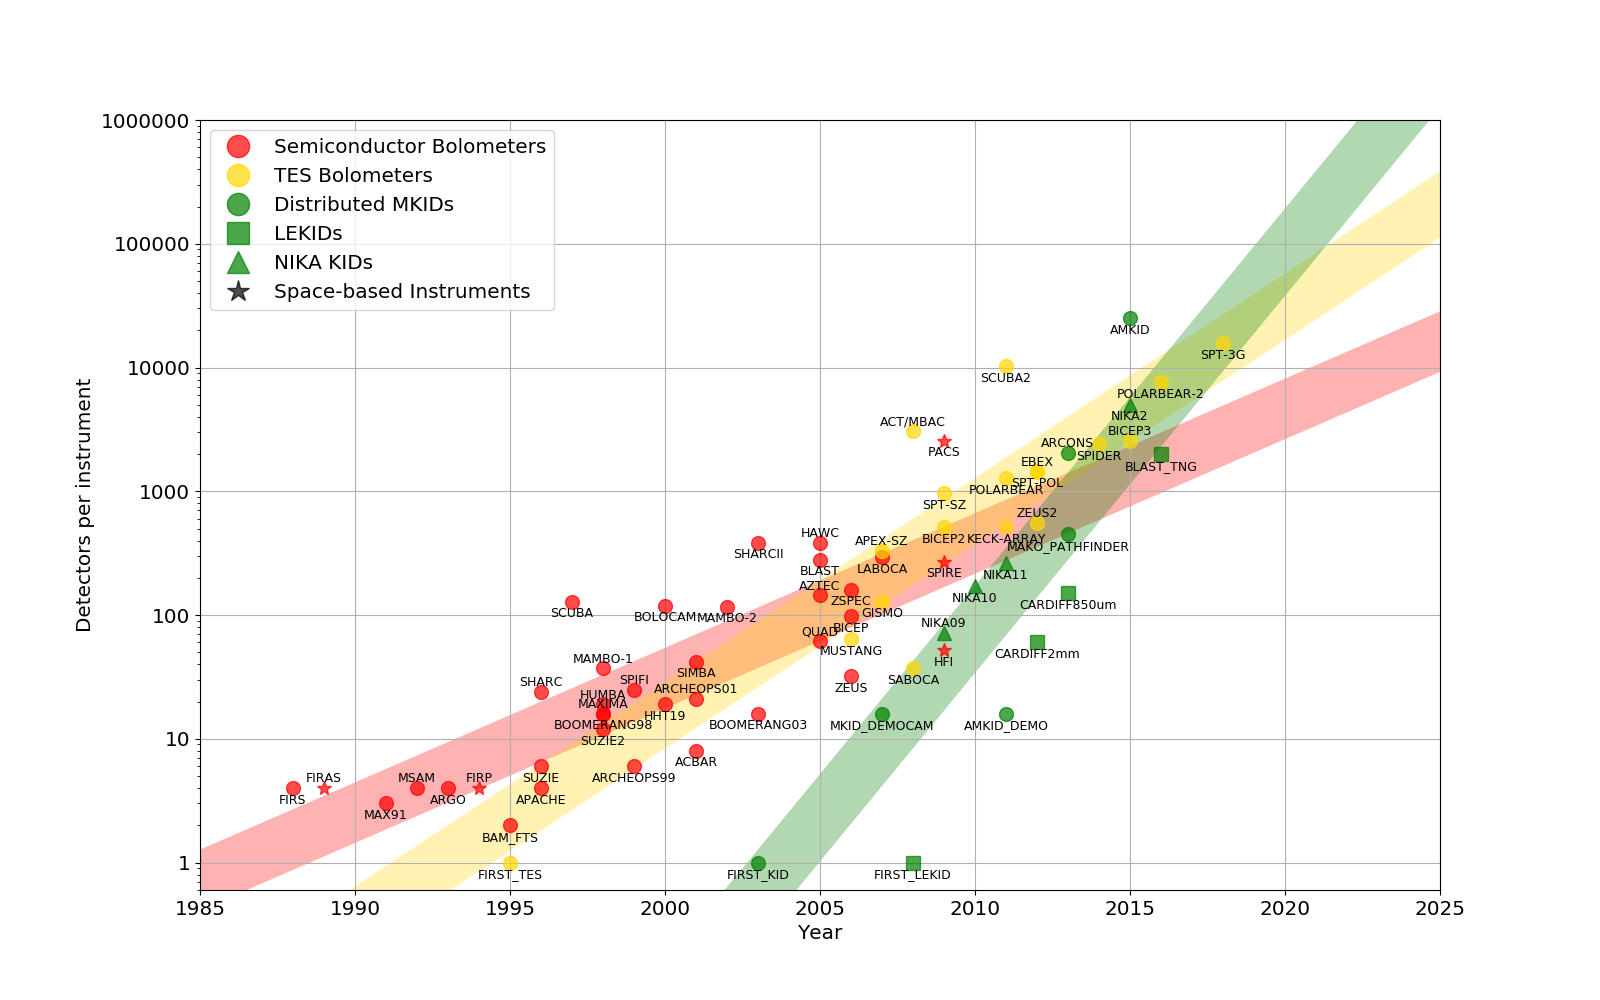
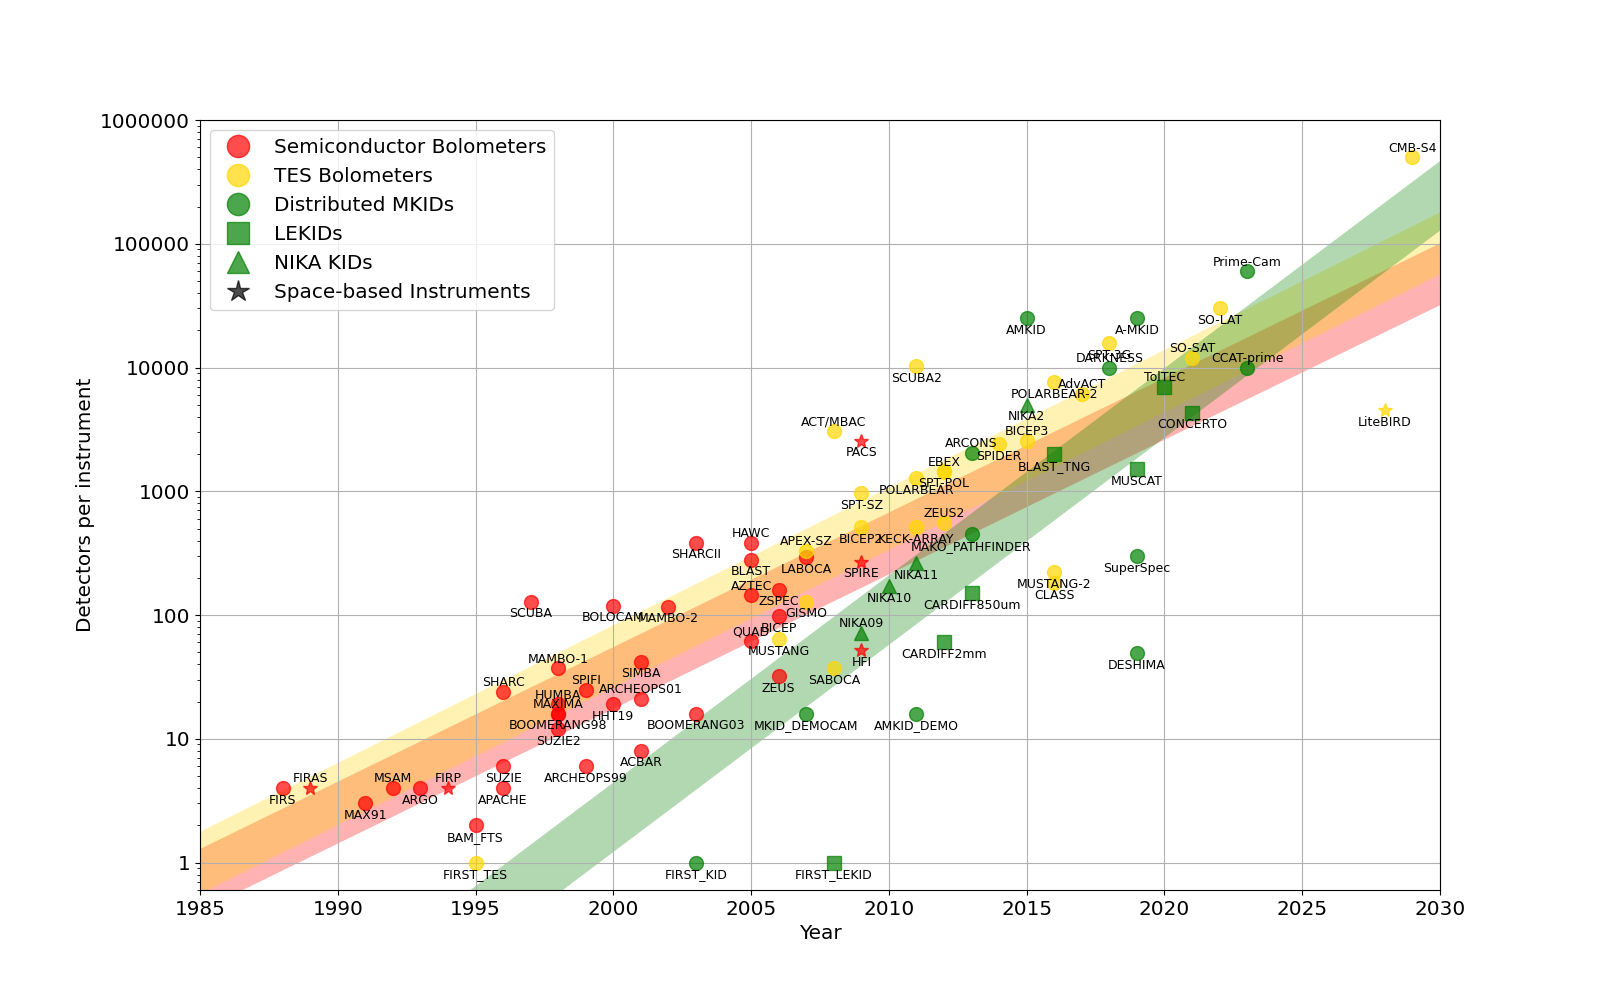
Add recent TES and KID/MKID instruments to table and update plot

diff --git a/instruments.py b/instruments.py
@@ -7,7 +7,7 @@ filename = 'instruments.csv'
 reader = csv.DictReader(open(filename), delimiter = '\t', quotechar = '"')
 instruments = [i for i in reader if i['Date'].isdigit()]
 
-textPositionUpper=['FIRAS','MSAM','FIRP','SHARC','SPIFI','MAMBO-1','HUMBA','MAXIMA','ARCHEOPS01','HAWC','AZTEC','QUAD','APEX-SZ','ACT/MBAC','NIKA09','EBEX','BICEP3','ZEUS2','ARCONS']
+textPositionUpper=['FIRAS','MSAM','FIRP','SHARC','SPIFI','MAMBO-1','HUMBA','MAXIMA','ARCHEOPS01','HAWC','AZTEC','QUAD','APEX-SZ','ACT/MBAC','NIKA09','EBEX','BICEP3','ZEUS2','ARCONS','AdvACT','DARKNESS','TolTEC','SO-SAT','CCAT-prime','CMB-S4','Prime-Cam']
 
 #prepare plot and add points
 f = plt.figure(figsize=(16,10))
@@ -116,12 +116,12 @@ lekids_y = [np.log10(float(i['Total_Detectors'])) for i in instruments if i['Det
 
 
 #fit lines between given dates
-bolorange = np.linspace(1980, 2025., 10)
-tesrange = np.linspace(1980, 2025., 10)
-semicondrange = np.linspace(1980, 2025., 10)
-kidrange = np.linspace(1980, 2025., 10)
-mkidrange = np.linspace(1980., 2025., 10)
-lekidrange = np.linspace(1980., 2025., 10)
+bolorange = np.linspace(1980, 2030., 10)
+tesrange = np.linspace(1980, 2030., 10)
+semicondrange = np.linspace(1980, 2030., 10)
+kidrange = np.linspace(1980, 2030., 10)
+mkidrange = np.linspace(1980., 2030., 10)
+lekidrange = np.linspace(1980., 2030., 10)
 
 bolo_poly = np.polyfit(bolos_x, bolos_y, 1)
 bolo_fit = np.poly1d(bolo_poly)(bolorange)
@@ -178,7 +178,7 @@ ax.plot(kidrange, 10**kids_fit, '-',color='green',lw=40,zorder=0,alpha=0.3)#labe
 ax.semilogy()
 ax.yaxis.set_major_formatter(plt.FormatStrFormatter('%0.0f'))
 ax.set_ylim(0.6, 1000000.)
-ax.set_xlim(1985, 2025)
+ax.set_xlim(1985, 2030)
 ax.tick_params(axis='x', labelsize='x-large')
 ax.tick_params(axis='y', labelsize='x-large')
 ax.set_ylabel('Detectors per instrument',fontsize='x-large')
